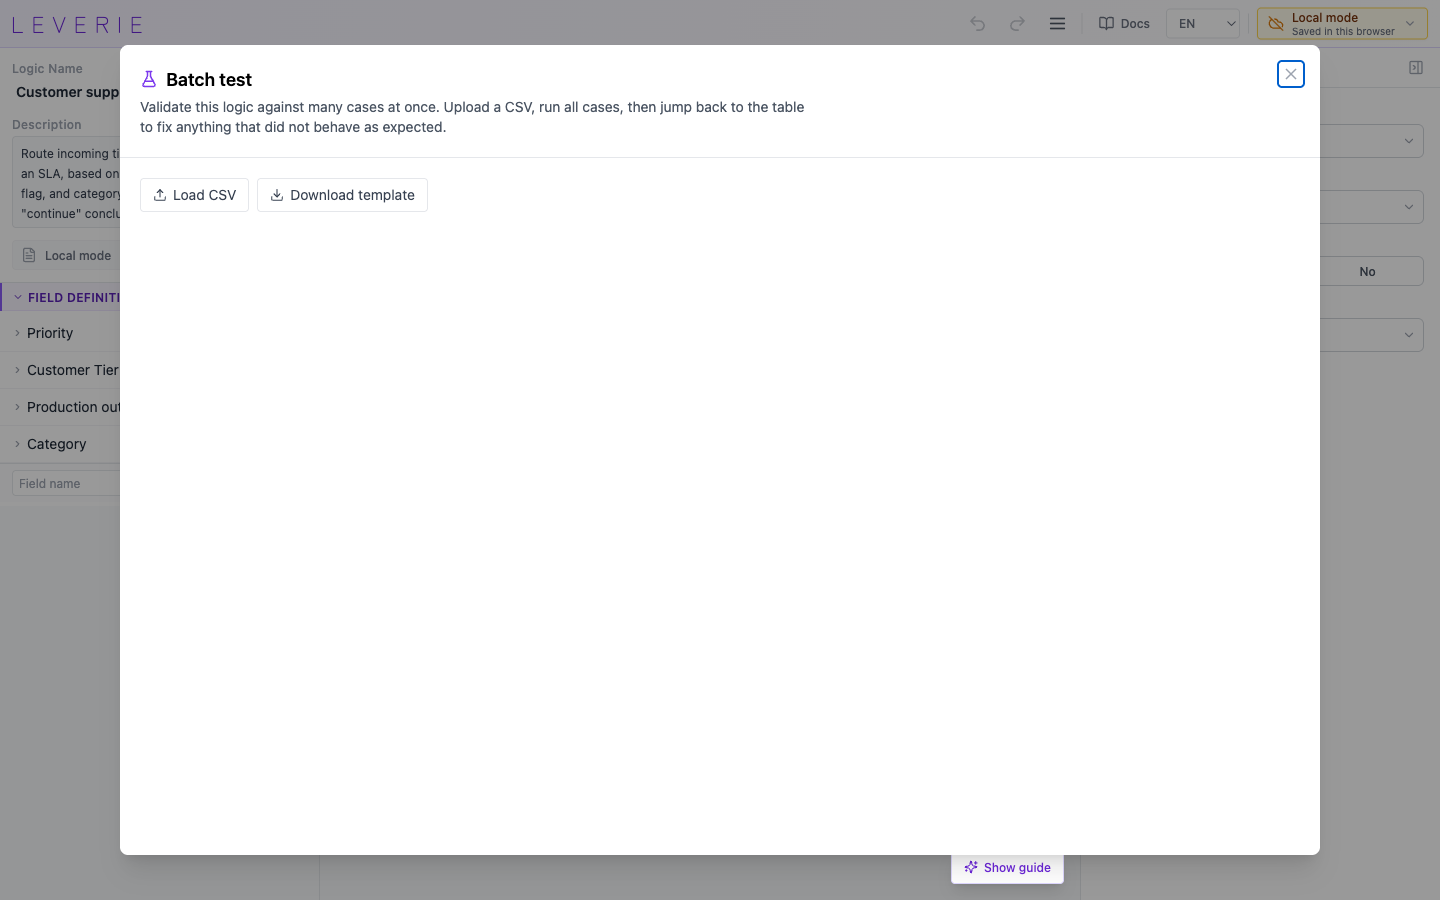
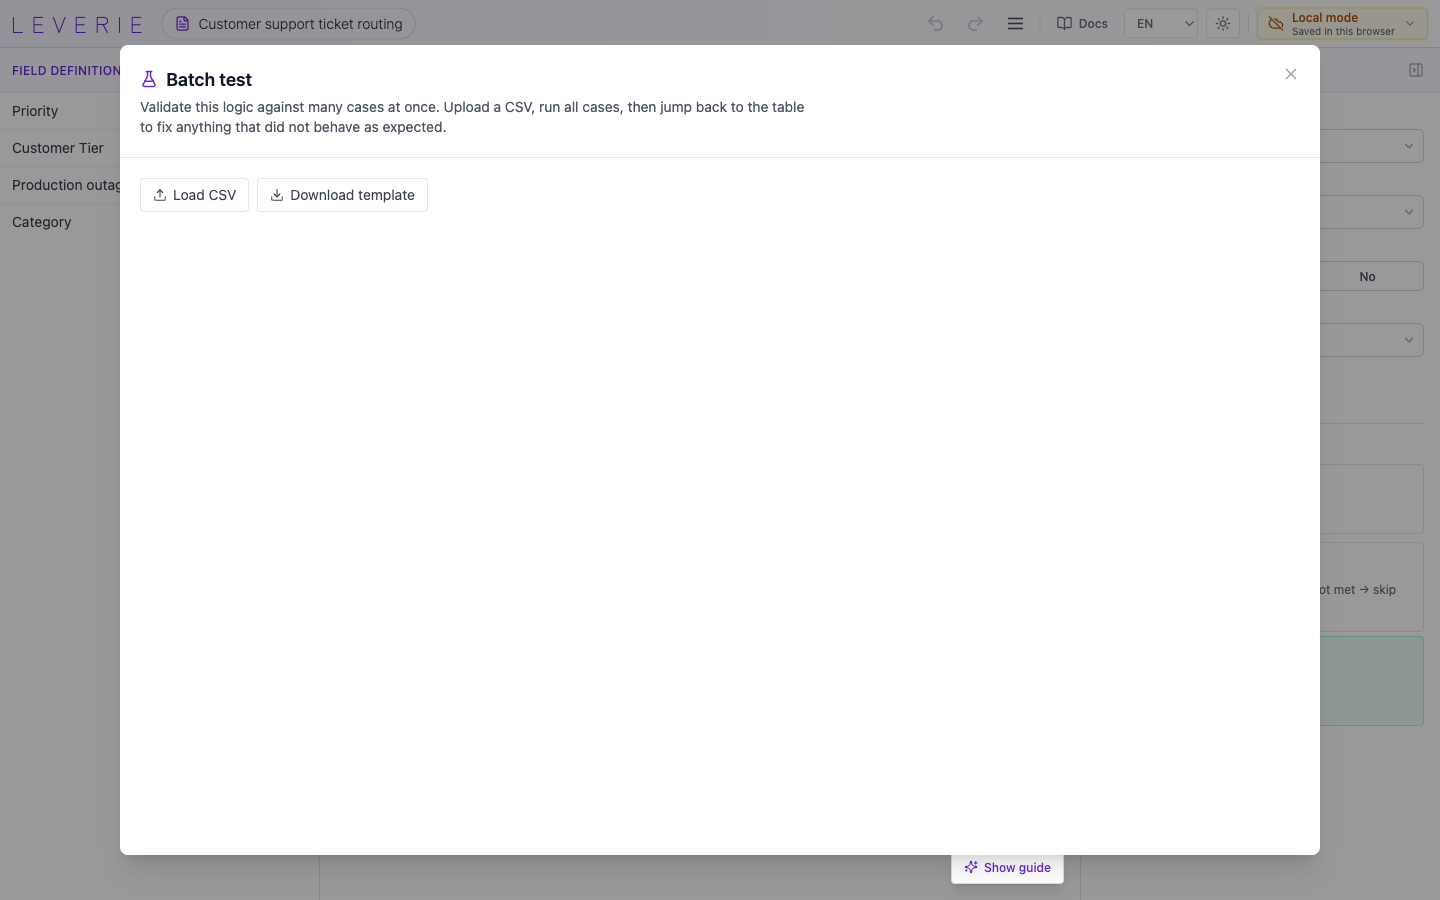
docs: update editor docs and screenshots for the v0.7.0 UI
Reflect the redesigned editor across the docs site: the header logic
switcher and Publish button, the reorganized More actions menu
(This logic / Tools), the fields-only sidebar with dialog editing,
conclusion chips, and the tabbed org/workspace settings. Recapture the
editor screenshots to match.

diff --git a/apps/docs/src/docs/pages/EditorPage.tsx b/apps/docs/src/docs/pages/EditorPage.tsx
@@ -44,8 +44,9 @@ export function EditorPage() {
 
       <DocSection title="Workspace layout">
         <p>
-          The editor is a three-part workspace. A header runs across the top, a
-          sidebar on the left holds the logic&apos;s name, description, and
+          The editor is a three-part workspace. A header runs across the top —
+          the current logic&apos;s name and switcher sit on the left, document
+          actions on the right — a sidebar on the left holds the logic&apos;s
           field definitions, and the center is the table or flowchart you are
           editing — with the table tabs and a collapsible logic overview sitting
           above it. When you are ready to try a case, the evaluation panel
@@ -54,7 +55,7 @@ export function EditorPage() {
         <figure className="media-card">
           <img
             src={asset('editor-table.png')}
-            alt="LEVERIE editor with header, left sidebar showing the logic name and field definitions, table tabs and the decision table in the center, and the evaluation panel on the right."
+            alt="LEVERIE editor with header carrying the logic switcher, a left sidebar of field definitions, table tabs and the decision table in the center, and the evaluation panel on the right."
           />
           <figcaption>
             Header (top), sidebar (left), decision table (center), and
@@ -66,7 +67,7 @@ export function EditorPage() {
             {
               icon: LayoutPanelLeft,
               title: 'Sidebar',
-              body: 'Holds the logic name, description, and field definitions — the typed inputs every table shares.',
+              body: 'Holds the field definitions — the typed inputs every table shares. Add one with the + button; click a field to edit it in a dialog.',
             },
             {
               icon: MousePointer2,
@@ -90,63 +91,77 @@ export function EditorPage() {
         <DefinitionList
           items={[
             [
-              'Language',
-              'Toggles the entire editor between English and Japanese. The choice is remembered per browser.',
-            ],
-            [
-              'Account and workspace',
-              'Shows the current mode (local or cloud), the active workspace and logic, and links to sign in or open organization settings.',
+              'Logic name and switcher',
+              'The pill next to the logo shows the current logic and its production version (or "Draft only"). Click it to rename the logic, and in cloud mode to search, switch between the workspace’s logics, and create new ones.',
             ],
             [
               'Undo and redo',
               'Reverse or re-apply the last structural edit. The shortcuts are ⌘Z and ⇧⌘Z (Ctrl on Windows or Linux).',
             ],
             [
+              'Publish',
+              'In cloud mode, an editor sees a Publish button here. It opens the diff review and promotes the current draft to a new production version.',
+            ],
+            [
               'More actions',
-              'A menu for New, Open file, Save backup, and Batch test. New is destructive in local mode; save a backup first if you want to keep your work. Open file and Save backup appear in local mode only.',
+              'A menu grouped into This logic and Tools. This logic holds Share Runner, Use via API, and Duplicate in cloud mode, Open file and Save backup in local mode, and Delete when you are allowed to remove the logic. Tools holds Batch test.',
             ],
             [
               'Docs',
               'Opens this documentation in a new tab so you can keep the editor open beside it.',
+            ],
+            [
+              'Language',
+              'Toggles the entire editor between English and Japanese. The choice is remembered per browser.',
+            ],
+            [
+              'Account and workspace',
+              'Shows the current mode (local or cloud) and the active workspace, and links to sign in or open organization settings.',
             ],
           ]}
         />
         <figure className="media-card">
           <img
             src={asset('editor-more-actions.png')}
-            alt="The More actions menu in the LEVERIE editor header with File and Tools sections."
+            alt="The More actions menu in the LEVERIE editor header with This logic and Tools sections."
           />
           <figcaption>
-            The More actions menu groups document operations (File: New, Open
-            file, Save backup) and authoring tools (Tools: Batch test).
+            The More actions menu groups logic operations (This logic: Share
+            Runner, Use via API, Duplicate, and Delete in cloud mode; Open file
+            and Save backup in local mode) and authoring tools (Tools: Batch
+            test).
           </figcaption>
         </figure>
       </DocSection>
 
       <DocSection title="Left sidebar">
         <p>
-          The sidebar holds the parts of the logic that stay constant as you
-          move between tables.
+          The sidebar is dedicated to <strong>Field Definitions</strong> — the
+          part of the logic that stays constant as you move between tables.
         </p>
         <DefinitionList
           items={[
             [
-              'Logic name and description',
-              'Name the logic and describe what it decides. In cloud mode the same area surfaces draft, publish, and workspace controls.',
-            ],
-            [
               'Field Definitions',
               'The typed inputs the logic understands. Names entered here become the keys callers send through Hosted API and Hosted MCP.',
             ],
+            [
+              'Add and edit fields',
+              'Use the + button in the Field Definitions header to add a field, or click an existing field to open its editor dialog — name, type, and, for enums, the list of allowed values.',
+            ],
           ]}
         />
-        <Callout icon={MousePointer2} title="Tables and the table graph moved">
-          The list of tables now lives as tabs across the top of the main work
-          area, and the miniature table graph is the collapsible{' '}
-          <strong>Logic overview</strong> above the table. The Field Definitions
-          header still collapses, and on narrower screens the sidebar scrolls
-          independently so a large field list does not push the table
-          off-screen.
+        <Callout
+          icon={MousePointer2}
+          title="Name, description, and tables moved"
+        >
+          The logic name and description are no longer in the sidebar — they
+          live in the header, behind the logic switcher pill. The list of tables
+          now lives as tabs across the top of the main work area, and the
+          miniature table graph is the collapsible{' '}
+          <strong>Logic overview</strong> above the table. On narrower screens
+          the sidebar scrolls independently so a large field list does not push
+          the table off-screen.
         </Callout>
       </DocSection>
 

diff --git a/apps/docs/src/docs/pages/WorkspacePage.tsx b/apps/docs/src/docs/pages/WorkspacePage.tsx
@@ -95,22 +95,22 @@ export function WorkspacePage() {
         <p>
           Organization settings live at <code>/settings/org</code> and are
           reachable from the Account and workspace menu in the editor header.
-          Only owners and admins can open the page. It is where membership,
-          invitations, and roles are managed.
+          Only owners and admins can open the page. It is split into three tabs:
+          General, Members, and Workspaces.
         </p>
         <DefinitionList
           items={[
             [
+              'General tab',
+              'Edit the organization name and slug. The slug is unique across LEVERIE, so a clash is reported rather than silently saved.',
+            ],
+            [
               'Members tab',
-              'Lists every active member with their email, role, and the date they joined. Role changes and removals happen here.',
+              'Lists every active member with their email, role, and join date — role changes and removals happen here. The same tab shows pending invitations (revoke one sent in error) and the invite-by-email form, which sends a tokenized invitation the recipient accepts by signing in or up.',
             ],
             [
-              'Pending invitations',
-              'Shows invitations sent but not yet accepted. You can revoke a pending invitation if it was sent in error.',
-            ],
-            [
-              'Invite by email',
-              'Sends a tokenized invitation. The recipient signs in or signs up; the system attaches them to your organization on acceptance.',
+              'Workspaces tab',
+              'Lists the workspaces in the organization and links each to its own workspace settings page.',
             ],
           ]}
         />
@@ -119,21 +119,23 @@ export function WorkspacePage() {
       <DocSection title="Workspace settings">
         <p>
           Workspace settings live at <code>/settings/workspace</code>. They are
-          also owner and admin only. The most common reason to open this page is
-          to issue or revoke <a href={pageHref('api-keys')}>API keys</a>, which
-          are scoped to a single workspace.
+          also owner and admin only, and split into two tabs: General and API
+          keys. The most common reason to open this page is to issue or revoke{' '}
+          <a href={pageHref('api-keys')}>API keys</a>, which are scoped to a
+          single workspace. A header link jumps back to the organization
+          settings for the same org.
         </p>
         <FeatureGrid
           items={[
             {
+              icon: Building2,
+              title: 'General tab',
+              body: 'Edit the workspace name and description. To move between workspaces, open the org settings Workspaces tab and pick one.',
+            },
+            {
               icon: KeyRound,
               title: 'API key list',
               body: 'Shows every active key, its prefix, scope, role, who created it, and when it was last used. The full secret is only shown once at creation time.',
-            },
-            {
-              icon: Building2,
-              title: 'Workspace picker',
-              body: 'If the organization owns more than one workspace, switch between them at the top of the page.',
             },
             {
               icon: ShieldCheck,

diff --git a/apps/docs/src/docs/pages/EvaluationPage.tsx b/apps/docs/src/docs/pages/EvaluationPage.tsx
@@ -1,7 +1,6 @@
 import {
   Compass,
   Download,
-  FileSpreadsheet,
   FlaskConical,
   PlayCircle,
   Sparkles,
@@ -83,9 +82,9 @@ export function EvaluationPage() {
         <p>
           Single-case evaluation is for the fast loop while writing rules. Batch
           test is for regression — running tens or hundreds of cases at once
-          before publishing. Open it from the More actions menu (Batch test),
-          upload a CSV of inputs and expected outputs, and review which rows
-          pass, which fail, and what each one actually returned.
+          before publishing. Open it from the More actions menu, under Tools
+          (Batch test), upload a CSV of inputs and expected outputs, and review
+          which rows pass, which fail, and what each one actually returned.
         </p>
         <figure className="media-card">
           <img
@@ -145,10 +144,10 @@ export function EvaluationPage() {
 
       <DocSection title="Backups: Open file and Save backup">
         <p>
-          The File group in the More actions menu lets you move logic between
-          machines or save a checkpoint before a risky refactor. These entries
-          appear in local mode; cloud mode persists through autosave and
-          publishing instead.
+          Open file and Save backup live under This logic in the More actions
+          menu, and let you move logic between machines or save a checkpoint
+          before a risky refactor. These entries appear in local mode; cloud
+          mode persists through autosave and publishing instead.
         </p>
         <FeatureGrid
           items={[
@@ -161,11 +160,6 @@ export function EvaluationPage() {
               icon: Upload,
               title: 'Open file',
               body: 'Loads a JSON file produced by Save backup. Validation runs immediately so a malformed file cannot corrupt the editor.',
-            },
-            {
-              icon: FileSpreadsheet,
-              title: 'New',
-              body: 'Clears the current draft. In local mode this is destructive — save a backup first if you want to keep the work.',
             },
           ]}
         />

diff --git a/apps/docs/src/docs/pages/TablesPage.tsx b/apps/docs/src/docs/pages/TablesPage.tsx
@@ -47,8 +47,10 @@ export function TablesPage() {
       <DocSection title="Fields and output columns">
         <p>
           Fields are the typed inputs the logic understands. They are defined
-          once in the left sidebar (Field Definitions) and reused across tables.
-          The field name is the key that external callers will send through{' '}
+          once in the left sidebar (Field Definitions) — add one with the +
+          button, or click a field to edit its name, type, and enum values in a
+          dialog — and reused across tables. The field name is the key that
+          external callers will send through{' '}
           <a href={pageHref('hosted-api')}>Hosted API</a> and{' '}
           <a href={pageHref('hosted-mcp')}>Hosted MCP</a>.
         </p>
@@ -80,8 +82,10 @@ export function TablesPage() {
           Output columns sit on the right side of every table. Instead of a
           single opaque answer like &quot;rejected,&quot; a row can return
           several named values, for example <code>decision</code>,{' '}
-          <code>queue</code>, <code>sla</code>, <code>reviewer</code>. External
-          callers receive these as a structured response.
+          <code>queue</code>, <code>sla</code>, <code>reviewer</code>. In the
+          table each output shows as a labeled chip (column name plus value) in
+          the row&apos;s conclusion cell, and external callers receive them as a
+          structured response.
         </p>
         <Callout icon={FileJson2} title="Name fields and outputs deliberately">
           Field and output names are part of your API surface. Renaming them

diff --git a/apps/docs/src/docs/pages/SharingPage.tsx b/apps/docs/src/docs/pages/SharingPage.tsx
@@ -38,10 +38,11 @@ export function SharingPage() {
 
       <DocSection title="Sharing from the editor">
         <p>
-          Open the Account and workspace menu in the header, then choose{' '}
-          <strong>Share runner</strong>. The dialog shows the version that would
-          be served (production if pinned, otherwise latest), a button to copy
-          the runner URL, and a small form to invite someone by email.
+          Open the More actions menu in the header, then choose{' '}
+          <strong>Share Runner</strong> under This logic. The dialog shows the
+          version that would be served (production if pinned, otherwise latest),
+          a button to copy the runner URL, and a small form to invite someone by
+          email.
         </p>
         <FeatureGrid
           items={[

diff --git a/apps/docs/src/docs/pages/HostedApiPage.tsx b/apps/docs/src/docs/pages/HostedApiPage.tsx
@@ -26,8 +26,8 @@ export function HostedApiPage() {
       <DocSection title="Copy a snippet from the editor">
         <p>
           You do not have to assemble the request by hand. Open a logic in the
-          editor and, in the left sidebar under <strong>Publish</strong> and{' '}
-          <strong>Share Runner</strong>, click <strong>Use via API</strong>. The
+          editor and, from the header More actions menu under{' '}
+          <strong>This logic</strong>, click <strong>Use via API</strong>. The
           dialog generates a ready-to-run call for <em>that</em> logic,
           prefilled with its endpoint, id, selected version, and an example{' '}
           <code>inputs</code> payload built from its field definitions.
